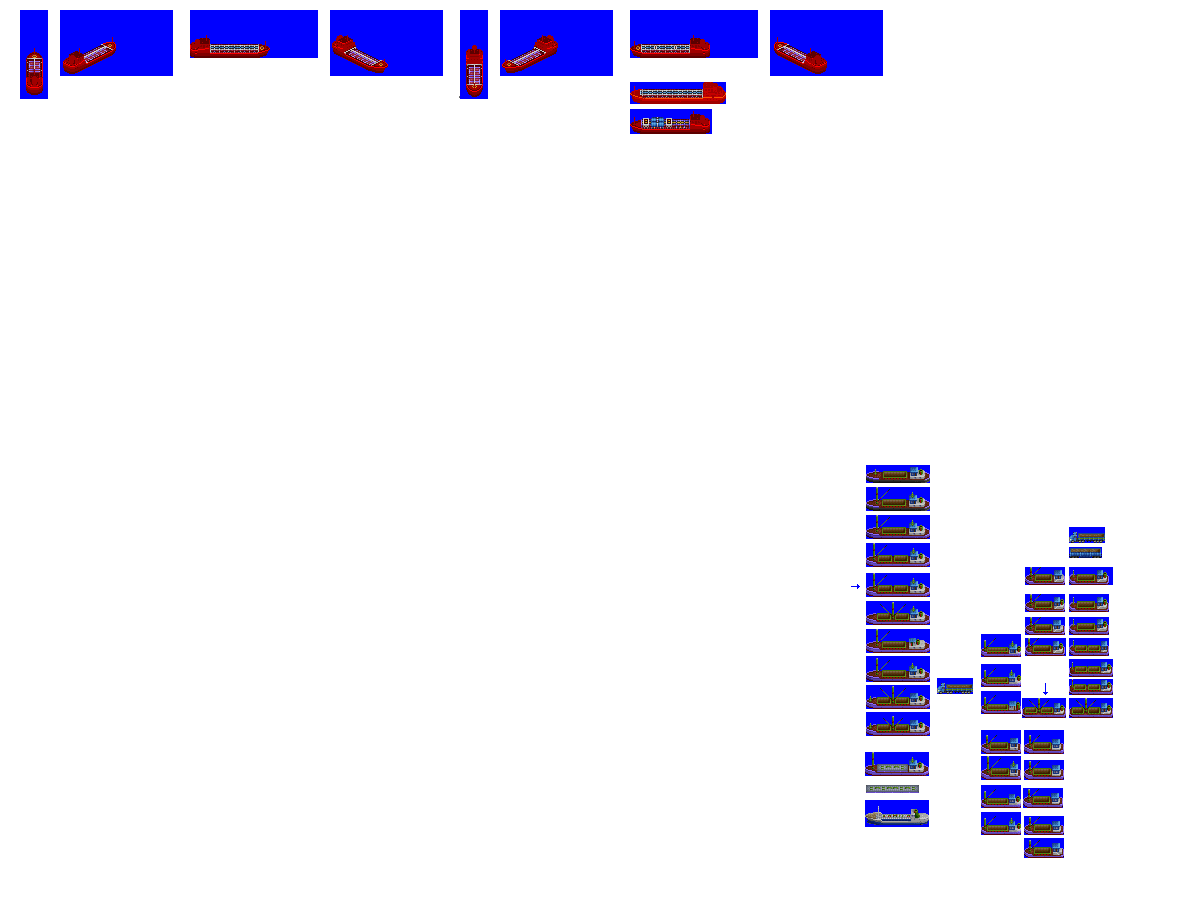
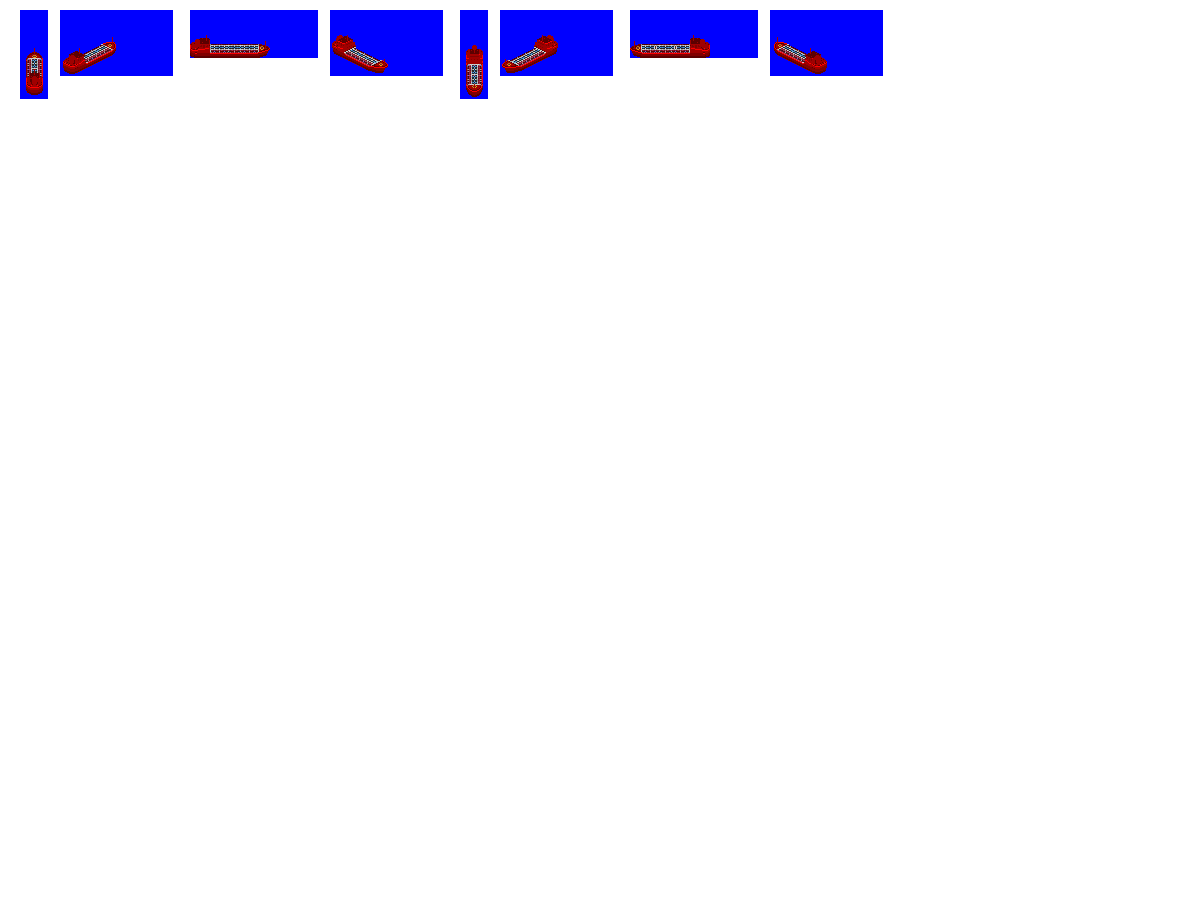
Change: sprites complete for gen 3C product tanker

diff --git a/src/vehicles/product_tanker_ships.py b/src/vehicles/product_tanker_ships.py
@@ -32,7 +32,7 @@ def main():
         hull="ShipHouseRear",
         str_type_info="SMALL_TANKER_COASTAL_INLAND",
         effect_type="EFFECT_SPRITE_DIESEL",
-        sprites_complete=False,
+        sprites_complete=True,
     )
 
     ship = ProductTankerShip(
